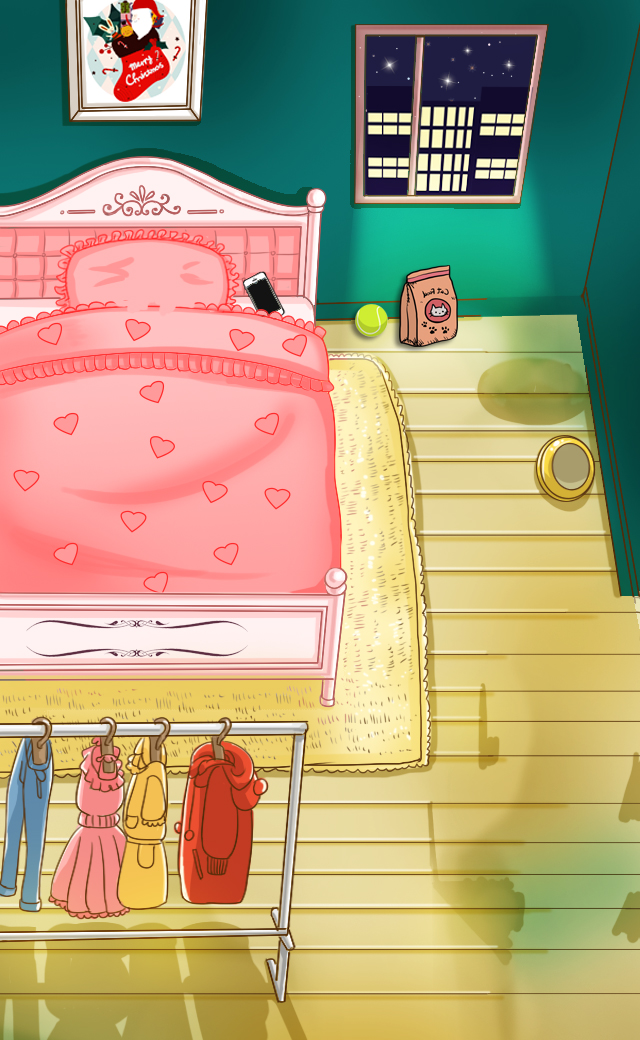
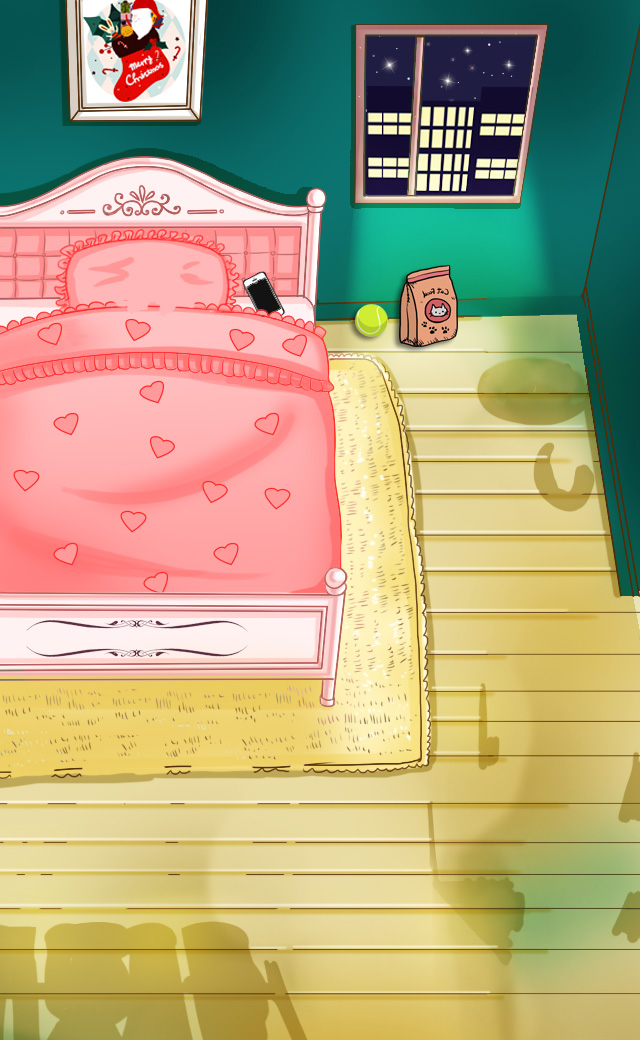
add hmlt

Changed region(s): [[0.0, 0.6769, 0.5, 0.9846], [0.8125, 0.4, 0.9375, 0.4923]]

diff --git a/HTML/style/page.css b/HTML/style/page.css
@@ -309,6 +309,42 @@
         -webkit-transform: translateX(-1.225rem)
     }
 }
+.p2__prop-3 {
+    width: 1.65rem;
+    height: 1.55rem;
+    position: absolute;
+    bottom: .16rem;
+    left: 0;
+    overflow: hidden;
+}
+.p2__prop-3.shake img {
+    height: 200%;
+    animation: prop3 .4s steps(1) infinite;
+    -webkit-animation: prop3 .4s steps(1) infinite
+}
+@keyframes prop3 {
+    0% {
+        transform: translateY(0)
+    }
+    50% {
+        transform: translateY(-1.55rem)
+    }
+    100% {
+        transform: translateY(-1.55rem)
+    }
+}
+
+@-webkit-keyframes prop3 {
+    0% {
+        -webkit-transform: translateY(0)
+    }
+    50% {
+        -webkit-transform: translateY(-1.55rem)
+    }
+    100% {
+        -webkit-transform: translateY(-1.55rem)
+    }
+}
 
 
 /*----------------------------- p5 -------------------------------------*/

diff --git a/HTML/page1.html b/HTML/page1.html
@@ -95,7 +95,7 @@
     <!-- P1 end -->
 
     <!-- P2-p4 start -->
-    <div class="page none" id="p2">
+    <div class="page" id="p2">
         <div class="bg">
             <img src="images/p2/p2_bg.jpg">
         </div>
@@ -112,6 +112,9 @@
         </div>
         <div class="p2__prop-2 shake">
             <img src="images/p2/p2_prop-2.png">
+        </div>
+        <div class="p2__prop-3 shake">
+            <img src="images/p2/p2_prop-3.png">
         </div>
 
         <!-- 提示气泡 -->
@@ -261,7 +264,7 @@
     <!-- 场景C end -->
 
     <!-- pk start -->
-    <div class="page" id="pk">
+    <div class="page none" id="pk">
         <div class="pk__left none">
             <div class="bg">
                 <img src="images/pk/pk_left_bg.jpg">
